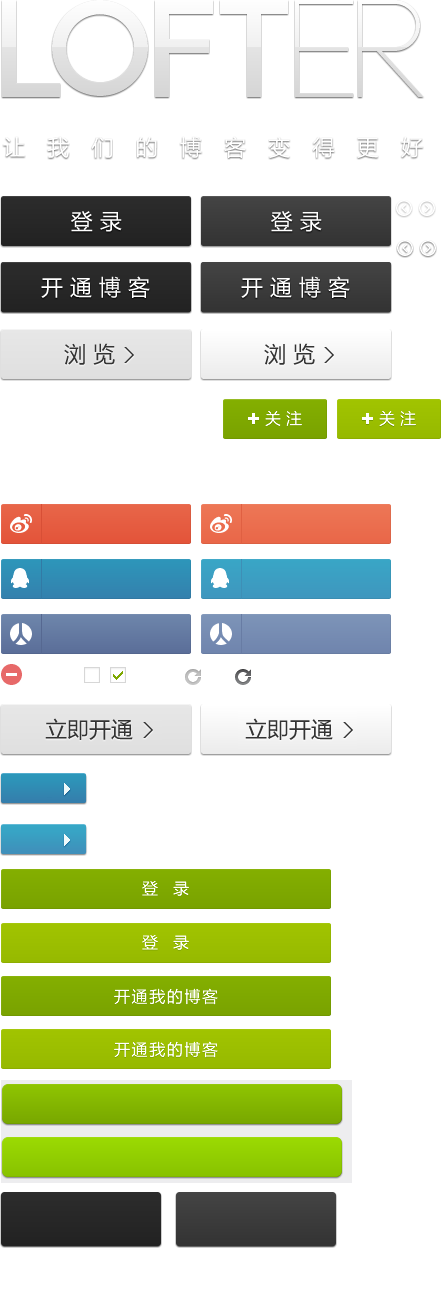
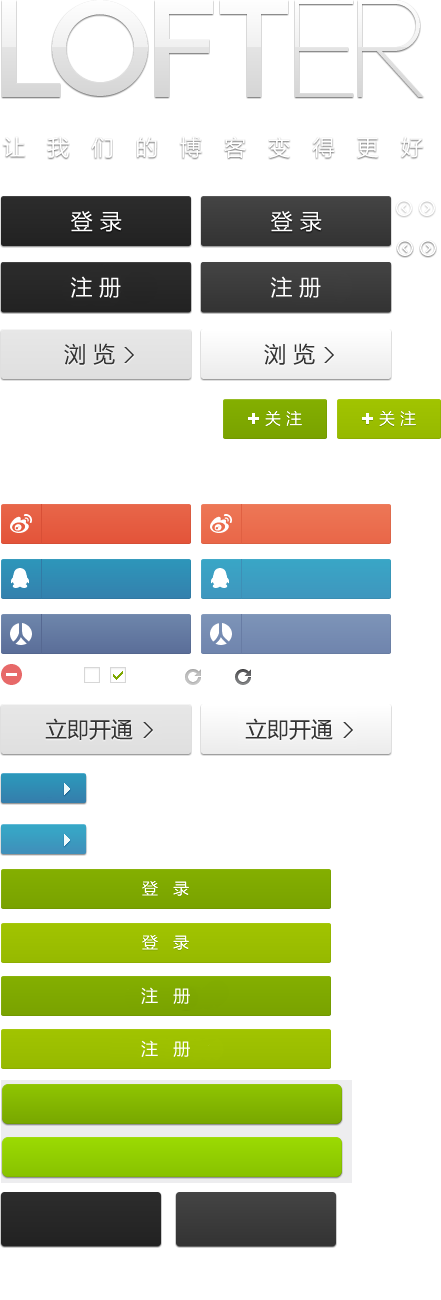
登录模块的样式再美化以及注册模块的添加！

diff --git a/views/index.html b/views/index.html
@@ -10,7 +10,7 @@
     <div id="container">
         <div id="iWrap" class="iWrap">
             <div class="iBgWrap">
-                <img id="iPbg" src="/images/bg6.jpg" >
+                <img id="iPbg" class="iPbg" src="/images/bg6.jpg" >
                 <div id="loginform" class="loginform">
                     <div class="logo"></div>
                     <div class="m-userlnks f-cb">
@@ -27,13 +27,49 @@
                                     <li class="w0">
                                         <div class="inpt ztag">
                                             <!--<label class="ztag">网易通行证 / 邮箱</label>-->
-                                            <input type="text" tabindex="1" class="txt" placeholder="邮箱" id="username" name="username"/>
+                                            <input type="text" tabindex="1" class="txt" placeholder="用户名" id="username" name="username"/>
                                         </div>
                                     </li>
                                     <li class="w0">
                                         <div class="inpt"><label class="ztag">密码</label><input tabindex="2" name="password" type="password" placeholder="密码"class="txt" autocomplete="off" id="password" name="password"/></div>
                                     </li>
-                                    <li class="w0 w2">
+                                    <li class="w0">
+                                        <button  tabindex="4" type='submit' class="btn ztag"><span>登录</span></button>
+                                    </li>
+                                    <li class="w0 w3 f-cb">
+                                        <span class="chkbox ztag"><span class="c ztag j-ok"><input id="c0" type="checkbox"/></span><a class="ztag" tabindex="3" href="#">记住密码</a></span>
+                                        <a class="fgt" href="http://reg.163.com/RecoverPassword.shtml" target="_blank">忘记密码</a>
+                                    </li>
+                                </ul>
+                            </form>
+                    <a href="/signup">注册</a>
+                    <% if (locals.error) { %>
+                    <div class="alert alert-error">
+                        <a class="close" data-dismiss="alert" href="#">&times;</a> <strong><%= error %></strong>
+                    </div>
+                    <% } %></div>
+                       <div class="contl">
+                    <form action="/signup" method="post">
+                    <ul class="w-user w-user-2">
+                                    <li class="w0">
+                                        <div class="inpt ztag">
+                                            <!--<label class="ztag">网易通行证 / 邮箱</label>-->
+                                            <input type="text" tabindex="1" class="txt" placeholder="用户名" id="username" name="username"/>
+                                        </div>
+                                    </li>
+                                    <li class="w0">
+                                        <div class="inpt ztag">
+                                            <!--<label class="ztag">网易通行证 / 邮箱</label>-->
+                                            <input type="text" tabindex="1" class="txt" placeholder="邮箱" id="useremail" name="useremail"/>
+                                        </div>
+                                    </li>
+                                    <li class="w0">
+                                        <div class="inpt"><label class="ztag">密码</label><input tabindex="2" name="password" type="password" placeholder="密码"class="txt" autocomplete="off" id="password" name="password"/></div>
+                                    </li>
+                                    <li class="w0">
+                                        <div class="inpt"><label class="ztag">重复密码</label><input tabindex="2" id="re_pwd" name="re_pwd" placeholder="重复密码"class="txt" autocomplete="off" id="password" name="password"/></div>
+                                    </li>
+                                    <li class="w0">
                                         <button  tabindex="4" type='submit' class="btn ztag"><span>登录</span></button>
                                     </li>
                                     <li class="w0 w3 f-cb">

diff --git a/public/css/index.css b/public/css/index.css
@@ -17,10 +17,11 @@
  }
  .iWrap{
     width:100%;
-    height:100%;  
+    height:185%;  
     overflow:hidden;  
-    position:absolute;  top:0;  left:0;  
+    position:absolute;  top:-200px;  left:0;  
     text-align:center;
+    
 }
 .iWrap .iBgWrap{
     height:100%;  
@@ -29,6 +30,7 @@
     position:absolute;  top:0;  
     width:100%;  
 }
+
 .loginform {
     height:800px;  
     left:50%; 
@@ -71,7 +73,7 @@
     width: 422px;
     height: 172px;
 }
-.m-userlnks{padding-left: 40px;}
+.m-userlnks{padding-left: 140px;}
 .m-userlnks a{display:block;float:left;margin:0 7px;width:192px;height:52px;font-size:21px;letter-spacing:8px;text-align:center;line-height:52px;-moz-border-radius:2px;-webkit-border-radius:2px;border-radius:2px;*text-indent:-9999px;*overflow:hidden;}
 .m-userlnks a{width:184px;padding-left:8px;}
 .m-userlnks a span{display: none;}
@@ -93,8 +95,10 @@
     width:450px;
     text-align: left;
     padding-left: 5px;
+    margin-top: 10px;
+    padding-top: 5px;
     background-color: #fff;
-    position:relative;  top:0px; left: 48px;
+    position:relative;  top:0px; left:17%;
 
 }
 .contl h3{
@@ -122,5 +126,14 @@
 .w-user .btn span{font-size:20px;display:block;*text-indent:-9999px;letter-spacing:14px;display: none;}
 .w-user .btn{width:332px;padding-left:14px;*padding-left:0;height:40px;border:0;}
 .w-user .btn::-moz-focus-inner{border:0;}
-.w-user-1 .btn{*background-position:0 -869px;}
-.w-user-1 .btn:hover,.w-user-1 button.j-hover{*background-position:0 -923px;}.w-user-2 .w4 .txt{width:150px;}
+.w-user-1 .btn{background-position:0 -869px;}
+.w-user-1 .btn:hover,.w-user-1 button.j-hover{background-position:0 -923px;}.w-user-2 .w4 .txt{width:150px;}
+.w-user-2 button{background:url(/images/login-24.png);background-position:0 -976px;}
+.w-user-2 .btn {
+    padding-left:3px;
+    *padding-left:0;
+    background-position:0 -976px;
+}
+.w-user-2 .btn:hover,.w-user-2 button.j-hover {
+    background-position:0 -1029px;
+}
